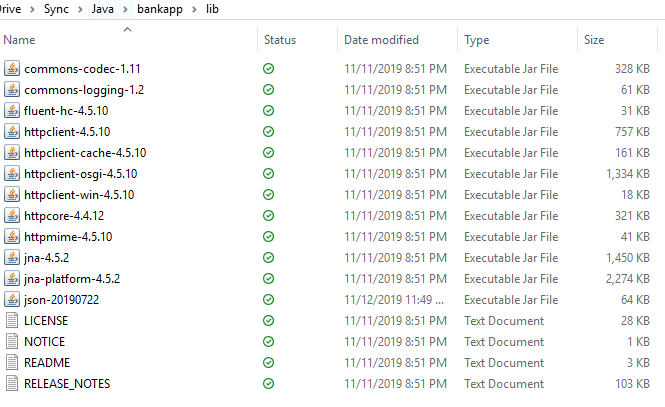
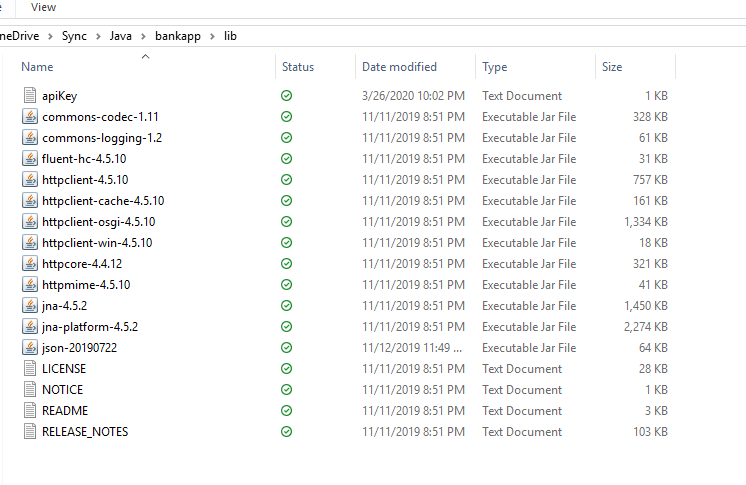
adding documentation and hiding apiKey

diff --git a/README.md b/README.md
@@ -2,7 +2,7 @@
 
 This app is run from the command line and simulates banking transactions. The data is read from and written to a simple text file, with some error catching for incorrectly formatted data. 
 
-There are several folders excluded (since they are third party packages), especially the HTTP and JSON handlers, seen in the folder under /lib in the project root directory:
+There are several folders excluded (since they are third party packages) as well as the apiKey, especially the HTTP and JSON handlers, seen in the folder under /lib in the project root directory:
 
 ![](https://github.com/csjoshc/bank-app/blob/master/man/libref.PNG?raw=true)
 
